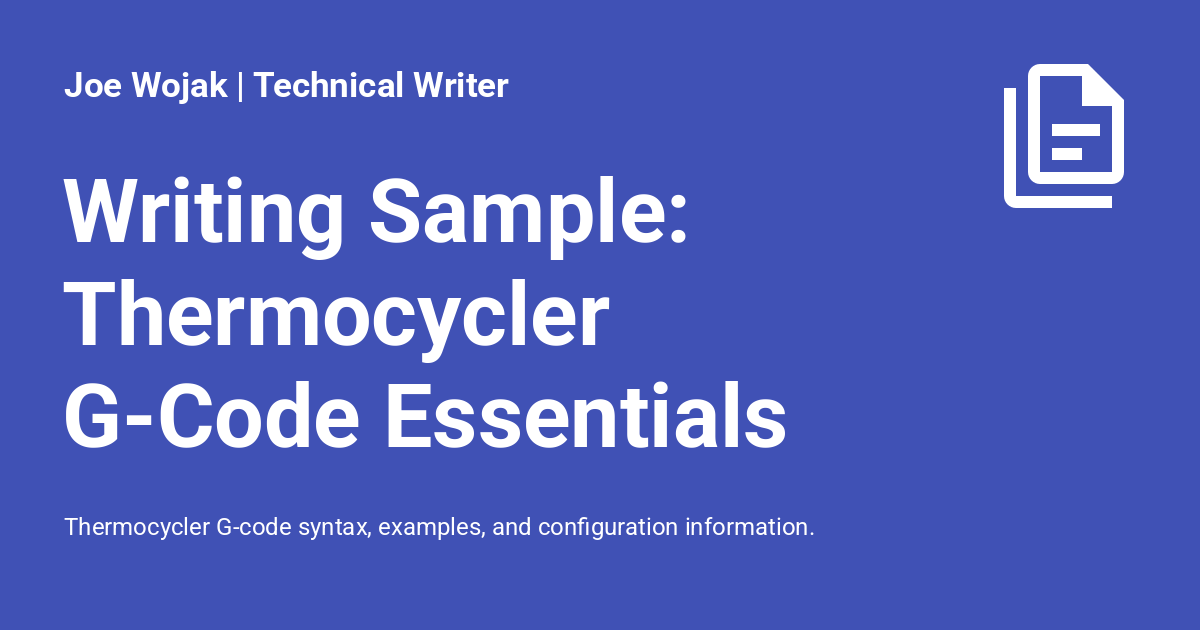
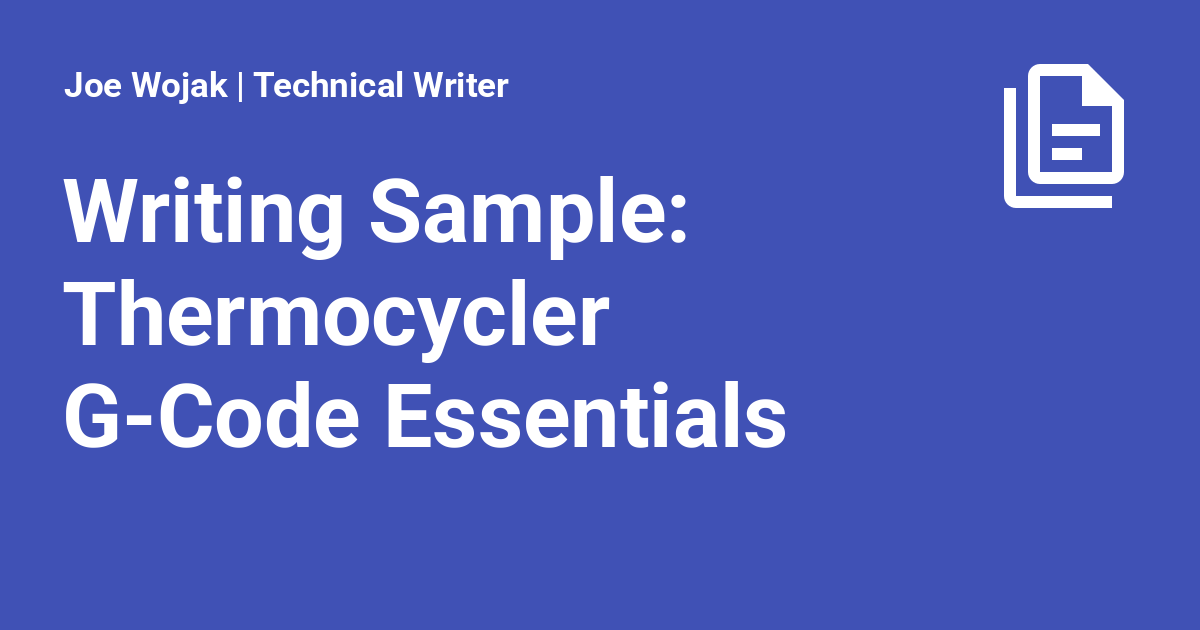
create custom page level TOCs

Changed region(s): [[0.0617, 0.8143, 0.6783, 0.8746]]

diff --git a/docs/writing-samples/robotics.md b/docs/writing-samples/robotics.md
@@ -1,8 +1,9 @@
 ---
 title: "Robotics Documentation"
+custom_toc_title: "Writing samples"
 ---
 
-## Flex writing samples
+## Flex robot
 
 The [Opentrons Flex Instruction Manual](https://docs.opentrons.com/flex/) is the manual for Opentrons' flagship liquid handling robot. This guide is an ongoing collaborative effort with contributions from the entire writing team. For specific examples as an individual contributor, see:
 
@@ -12,11 +13,11 @@ The [Opentrons Flex Instruction Manual](https://docs.opentrons.com/flex/) is the
 
 - [Command Line Operation Over SSH](https://docs.opentrons.com/flex/advanced-operation/command-line/) is another concept and task article that explains how to make a secure-socket connection to a Flex robot.
 
-## OT-2 writing samples
+## OT-2 robot
 
 The [Opentrons OT-2 Instruction Manual](https://docs.opentrons.com/ot-2/) is the manual for Opentrons' older, entry-level liquid handling robot. I am the primary author for this guide.
 
-## Modules writing samples
+## Robot modules
 
 Modules are hardware components that extend the capabilities of the Flex and OT-2 robots. Selected works as the primary writer include:
 

diff --git a/docs/writing-samples/index.md b/docs/writing-samples/index.md
@@ -1,12 +1,13 @@
 ---
 title: "Writing Samples: Robotics and Ad Tech Documentation"
+custom_toc_title: "Writing samples"
 ---
 
-These samples highlight my current work in robotics and past work in ad tech. The API and G-code examples are subsets of the robotics documentation.
+These samples highlight my current work in robotics and past work in ad tech.
 
 ## Robotics documentation
 
-The [robotics writing samples](./robotics.md) feature my work for Opentrons as a contributing writer and primary author.
+The [robotics writing samples](./robotics.md) feature my work for Opentrons as a contributing writer and primary author.  The API and G-code examples are subsets of the robotics documentation.
 
 ### API documentation
 

diff --git a/docs/writing-samples/gcodes-essentials.md b/docs/writing-samples/gcodes-essentials.md
@@ -1,6 +1,6 @@
 ---
 title: "Writing Sample: Thermocycler G-Code Essentials"
-description: "Thermocycler G-code syntax, examples, and configuration information."
+custom_toc_title: "Writing samples"
 ---
 
 G-codes are machine-readable instructions used to control hardware. You do not need to understand or use G-codes to operate a Thermocycler with Flex or OT-2. This section is a technical resource for developers building custom applications that work with the Thermocycler.

diff --git a/docs/writing-samples/budget-updates.md b/docs/writing-samples/budget-updates.md
@@ -1,5 +1,6 @@
 ---
 title: "Writing Sample: Understanding Budget Distribution and Update Cycles"
+custom_toc_title: "Writing samples"
 ---
 
 Five key components—the budget allocator, MySQL, Watson, Vertica, and the bidders—collaborate to manage and distribute budgets. Because the budget allocator and the bidders update data on separate schedules, their independent operations affect how and when budget data is distributed. 

diff --git a/docs/writing-samples/budget-distribution.md b/docs/writing-samples/budget-distribution.md
@@ -1,5 +1,6 @@
 ---
 title: "Writing Sample: Understanding Budget Distribution in Data Centers"
+custom_toc_title: "Writing samples"
 ---
 
 Each data center receives campaign budgets in direct proportion to the bid requests matched by its bidders. Within a data center, hardware differences between servers affect how much budget each bidder receives.

diff --git a/docs/writing-samples/budget-delay.md b/docs/writing-samples/budget-delay.md
@@ -1,5 +1,6 @@
 ---
 title: "Writing Sample: Budget Updates and Delivery Delays"
+custom_toc_title: "Writing samples"
 ---
 
 Asynchronous budget updates can delay tactic delivery by 10 minutes to an hour. However, you can force an immediate budget update by changing and saving any setting within a campaign or tactic.

diff --git a/docs/writing-samples/gcodes-list.md b/docs/writing-samples/gcodes-list.md
@@ -1,7 +1,9 @@
 ---
 title: "Writing Sample: Thermocycler Module G-Codes"
-description: "Lists all Thermocycler G-codes and responses."
+custom_toc_title: "Writing samples"
 ---
+
+## Thermocycler G-codes
 
 The Thermocycler accepts the G-code commands listed below.
 

diff --git a/docs/writing-samples/api-docs.md b/docs/writing-samples/api-docs.md
@@ -1,5 +1,6 @@
 ---
 title: "Writing Sample: API Documentation"
+custom_toc_title: "Writing samples"
 ---
 
 ## Labeling Liquids in Wells

diff --git a/docs/resume.md b/docs/resume.md
@@ -1,5 +1,6 @@
 ---
 title: "Joe Wojak: Resume"
+custom_toc_title: "Resume sections"
 ---
 
 # Joe Wojak, Technical Writer
